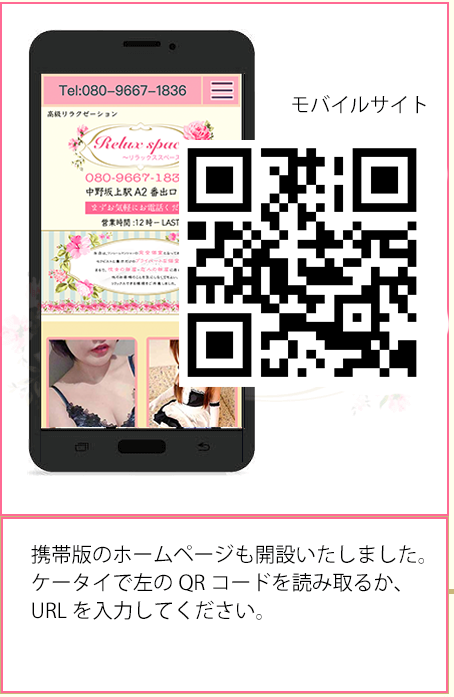
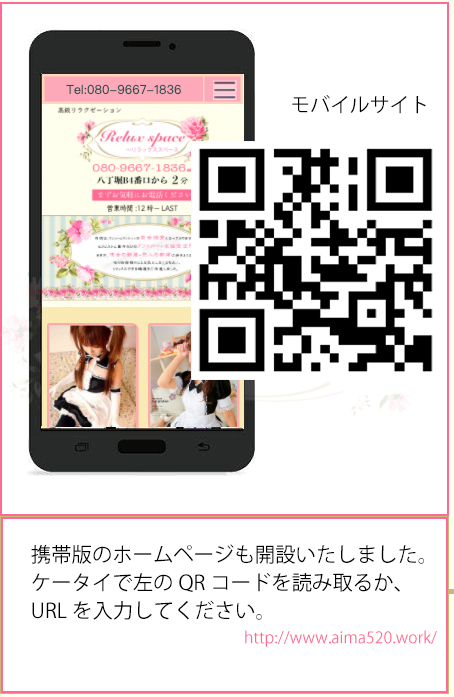
dd
dd

Changed region(s): [[0.0925, 0.0904, 0.9559, 0.6327], [0.5242, 0.9039, 0.9559, 0.934], [0.9868, 0.4519, 1.0, 0.4821]]

diff --git a/access.html b/access.html
@@ -2,9 +2,9 @@
 <html lang="en">
 <head>
   <meta charset="utf-8">
-  <title>Relux space 中野坂上駅リラクセーション　マッサージ　メンズエステ　リンパマッサージ【Relux space】</title>
+  <title>Relux space 八丁堀駅リラクセーション　マッサージ　メンズエステ　リンパマッサージ【Relux space】</title>
 <meta name="keywords" content="Relux space,エステ，Relux spaceアジア，アロママッサージ,精力回復,ストレス解消,アロマオイル,ボディケア,フットケア" />
-<meta name="description" content=" 中野坂上駅本格アロママッサージ，Relux spaceでございます，オイルマッサージで精力を増強します，仕事のストレスを解消いただきます。" />
+<meta name="description" content=" 八丁堀駅本格アロママッサージ，Relux spaceでございます，オイルマッサージで精力を増強します，仕事のストレスを解消いただきます。" />
   <meta name="viewport" content="width=device-width, initial-scale=1, minimum-scale=1, maximum-scale=1">
   <link rel="stylesheet" href="swiper.min.css">
   <link rel="stylesheet" href="css/nav_top.css">
@@ -60,8 +60,8 @@
 <div class="accesstitle"></div>
     </div>
     <div class=" access">
-      <iframe src="https://www.google.com/maps/embed?pb=!1m18!1m12!1m3!1d810.0381055263999!2d139.6821313291884!3d35.69786659876191!2m3!1f0!2f0!3f0!3m2!1i1024!2i768!4f13.1!3m3!1m2!1s0x6018f2d04bc801fb%3A0x5442531131ba3d9d!2sToei%20Oedo%20Line%20Nakano-sakaue%20Station%2C%202-ch%C5%8Dme-2-28%20Ch%C5%AB%C5%8D%2C%20Nakano%20City%2C%20T%C5%8Dky%C5%8D-to%20164-0011!5e0!3m2!1szh-CN!2sjp!4v1582028327571!5m2!1szh-CN!2sjp" width="600" height="450" frameborder="0" style="border:0;" allowfullscreen=""></iframe>
-        <div class="address">中野坂上駅A2番口 徒歩1分</div>
+      <iframe src="https://www.google.com/maps/embed?pb=!1m18!1m12!1m3!1d810.274135230363!2d139.77633742918587!3d35.674624798762224!2m3!1f0!2f0!3f0!3m2!1i1024!2i768!4f13.1!3m3!1m2!1s0x6018895e7e295c3b%3A0xb246a5ed9843db8c!2z5YWr5LiB5aCA6aeF!5e0!3m2!1sja!2sjp!4v1593513221652!5m2!1sja!2sjp" width="600" height="450" frameborder="0" style="border:0;" allowfullscreen="" aria-hidden="false" tabindex="0"></iframe>
+        <div class="address">八丁堀駅B4番口 徒歩2分</div>
         <div class="teleph"><a href="tel://08096671836">Tel:080-9667-1836</a></div>
     </div>
     <div class="end">

diff --git a/index.html b/index.html
@@ -11,9 +11,9 @@
   gtag('config', 'UA-153847017-3');
 </script>
 <meta charset="utf-8">
-<title>Relux space 中野坂上駅リラクセーション　マッサージ　メンズエステ　リンパマッサージ【Relux space】</title>
+<title>Relux space 八丁堀駅リラクセーション　マッサージ　メンズエステ　リンパマッサージ【Relux space】</title>
 <meta name="keywords" content="Relux space,エステ，Relux spaceアジア，アロママッサージ,精力回復,ストレス解消,アロマオイル,ボディケア,フットケア" />
-<meta name="description" content=" 中野坂上駅本格アロママッサージ，Relux spaceでございます，オイルマッサージで精力を増強します，仕事のストレスを解消いただきます。" />
+<meta name="description" content=" 八丁堀駅本格アロママッサージ，Relux spaceでございます，オイルマッサージで精力を増強します，仕事のストレスを解消いただきます。" />
   <meta name="viewport" content="width=device-width, initial-scale=1, minimum-scale=1, maximum-scale=1">
   <link rel="stylesheet" href="swiper.min.css">
   <link rel="stylesheet" href="css/nav_top.css">

diff --git a/girl.html b/girl.html
@@ -2,9 +2,9 @@
 <html lang="en">
 <head>
   <meta charset="utf-8">
-  <title>Relux space 中野坂上駅リラクセーション　マッサージ　メンズエステ　リンパマッサージ【Relux space】</title>
+  <title>Relux space 八丁堀駅リラクセーション　マッサージ　メンズエステ　リンパマッサージ【Relux space】</title>
 <meta name="keywords" content="Relux space,エステ，Relux spaceアジア，アロママッサージ,精力回復,ストレス解消,アロマオイル,ボディケア,フットケア" />
-<meta name="description" content=" 中野坂上駅本格アロママッサージ，Relux spaceでございます，オイルマッサージで精力を増強します，仕事のストレスを解消いただきます。" />
+<meta name="description" content=" 八丁堀駅駅本格アロママッサージ，Relux spaceでございます，オイルマッサージで精力を増強します，仕事のストレスを解消いただきます。" />
   <meta name="viewport" content="width=device-width, initial-scale=1, minimum-scale=1, maximum-scale=1">
   <link rel="stylesheet" href="swiper.min.css">
   <link rel="stylesheet" href="css/nav_top.css">

diff --git a/room.html b/room.html
@@ -2,9 +2,9 @@
 <html lang="en">
 <head>
   <meta charset="utf-8">
-  <title>Relux space 中野坂上駅リラクセーション　マッサージ　メンズエステ　リンパマッサージ【Relux space】</title>
+  <title>Relux space 八丁堀駅リラクセーション　マッサージ　メンズエステ　リンパマッサージ【Relux space】</title>
 <meta name="keywords" content="Relux space,エステ，Relux spaceアジア，アロママッサージ,精力回復,ストレス解消,アロマオイル,ボディケア,フットケア" />
-<meta name="description" content=" 中野坂上駅本格アロママッサージ，Relux spaceでございます，オイルマッサージで精力を増強します，仕事のストレスを解消いただきます。" />
+<meta name="description" content=" 八丁堀駅本格アロママッサージ，Relux spaceでございます，オイルマッサージで精力を増強します，仕事のストレスを解消いただきます。" />
   <meta name="viewport" content="width=device-width, initial-scale=1, minimum-scale=1, maximum-scale=1">
   <link rel="stylesheet" href="swiper.min.css">
   <link rel="stylesheet" href="css/nav_top.css">

diff --git a/system.html b/system.html
@@ -2,9 +2,9 @@
 <html lang="en">
 <head>
   <meta charset="utf-8">
-  <title>Relux space 中野坂上駅リラクセーション　マッサージ　メンズエステ　リンパマッサージ【Relux space】</title>
+  <title>Relux space 八丁堀駅リラクセーション　マッサージ　メンズエステ　リンパマッサージ【Relux space】</title>
 <meta name="keywords" content="Relux space,エステ，Relux spaceアジア，アロママッサージ,精力回復,ストレス解消,アロマオイル,ボディケア,フットケア" />
-<meta name="description" content=" 中野坂上駅本格アロママッサージ，Relux spaceでございます，オイルマッサージで精力を増強します，仕事のストレスを解消いただきます。" />
+<meta name="description" content=" 八丁堀駅本格アロママッサージ，Relux spaceでございます，オイルマッサージで精力を増強します，仕事のストレスを解消いただきます。" />
   <meta name="viewport" content="width=device-width, initial-scale=1, minimum-scale=1, maximum-scale=1">
   <link rel="stylesheet" href="swiper.min.css">
   <link rel="stylesheet" href="css/nav_top.css">

diff --git a/recruit.html b/recruit.html
@@ -2,9 +2,9 @@
 <html lang="en">
 <head>
   <meta charset="utf-8">
-  <title>Relux space 中野坂上駅リラクセーション　マッサージ　メンズエステ　リンパマッサージ【Relux space】</title>
+  <title>Relux space八丁堀駅リラクセーション　マッサージ　メンズエステ　リンパマッサージ【Relux space】</title>
 <meta name="keywords" content="Relux space,エステ，Relux spaceアジア，アロママッサージ,精力回復,ストレス解消,アロマオイル,ボディケア,フットケア" />
-<meta name="description" content=" 中野坂上駅本格アロママッサージ，Relux spaceでございます，オイルマッサージで精力を増強します，仕事のストレスを解消いただきます。" />
+<meta name="description" content=" 八丁堀駅本格アロママッサージ，Relux spaceでございます，オイルマッサージで精力を増強します，仕事のストレスを解消いただきます。" />
   <meta name="viewport" content="width=device-width, initial-scale=1, minimum-scale=1, maximum-scale=1">
   <link rel="stylesheet" href="swiper.min.css">
   <link rel="stylesheet" href="css/nav_top.css">
